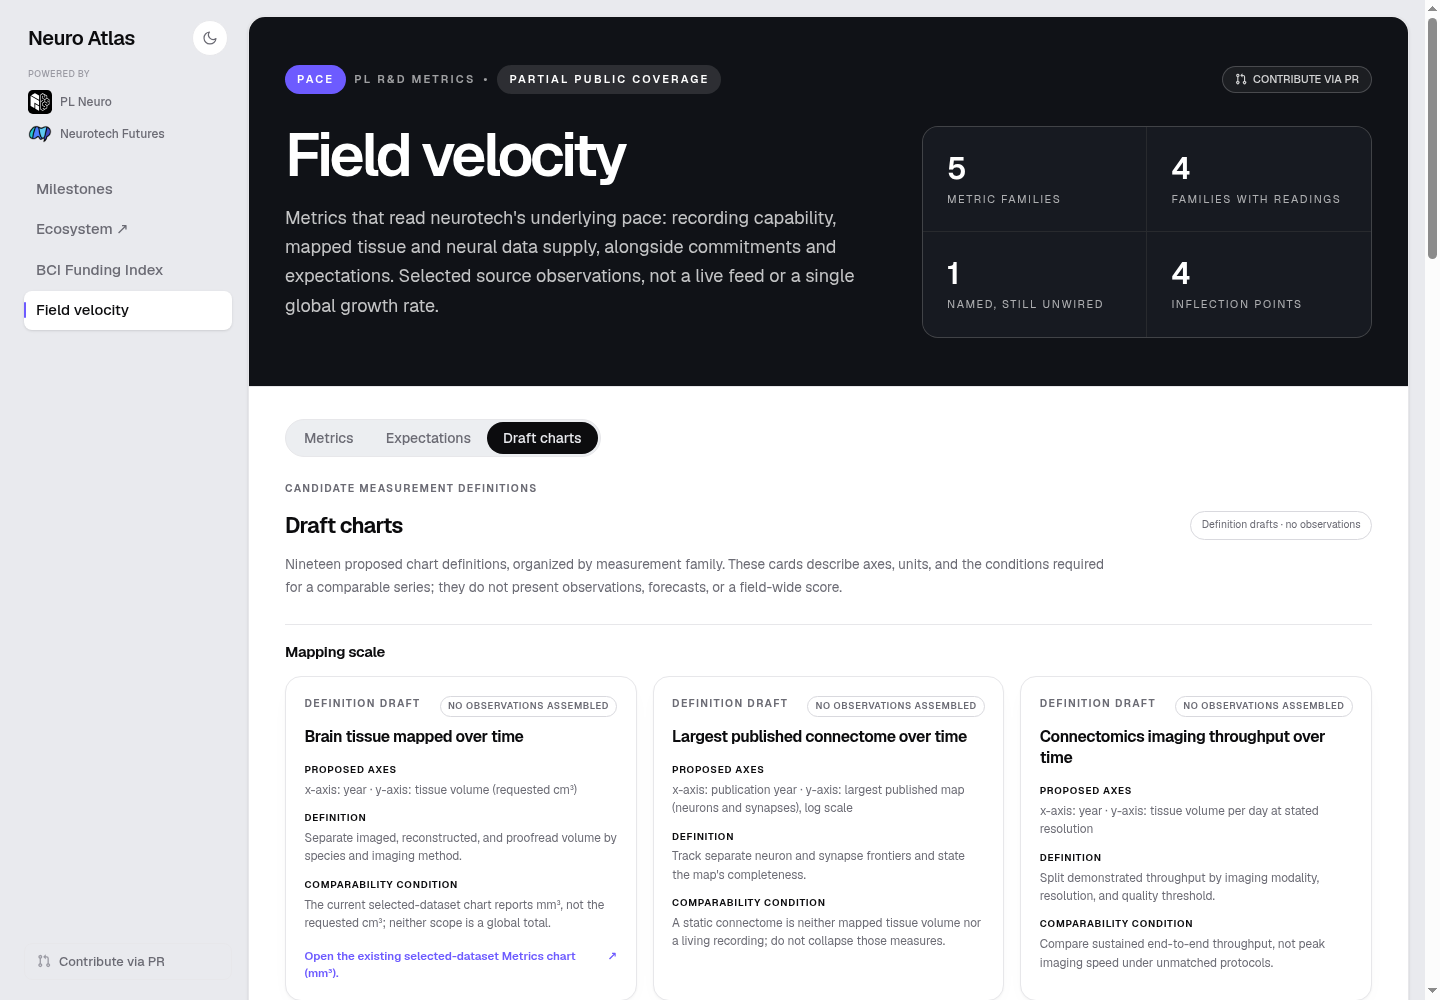
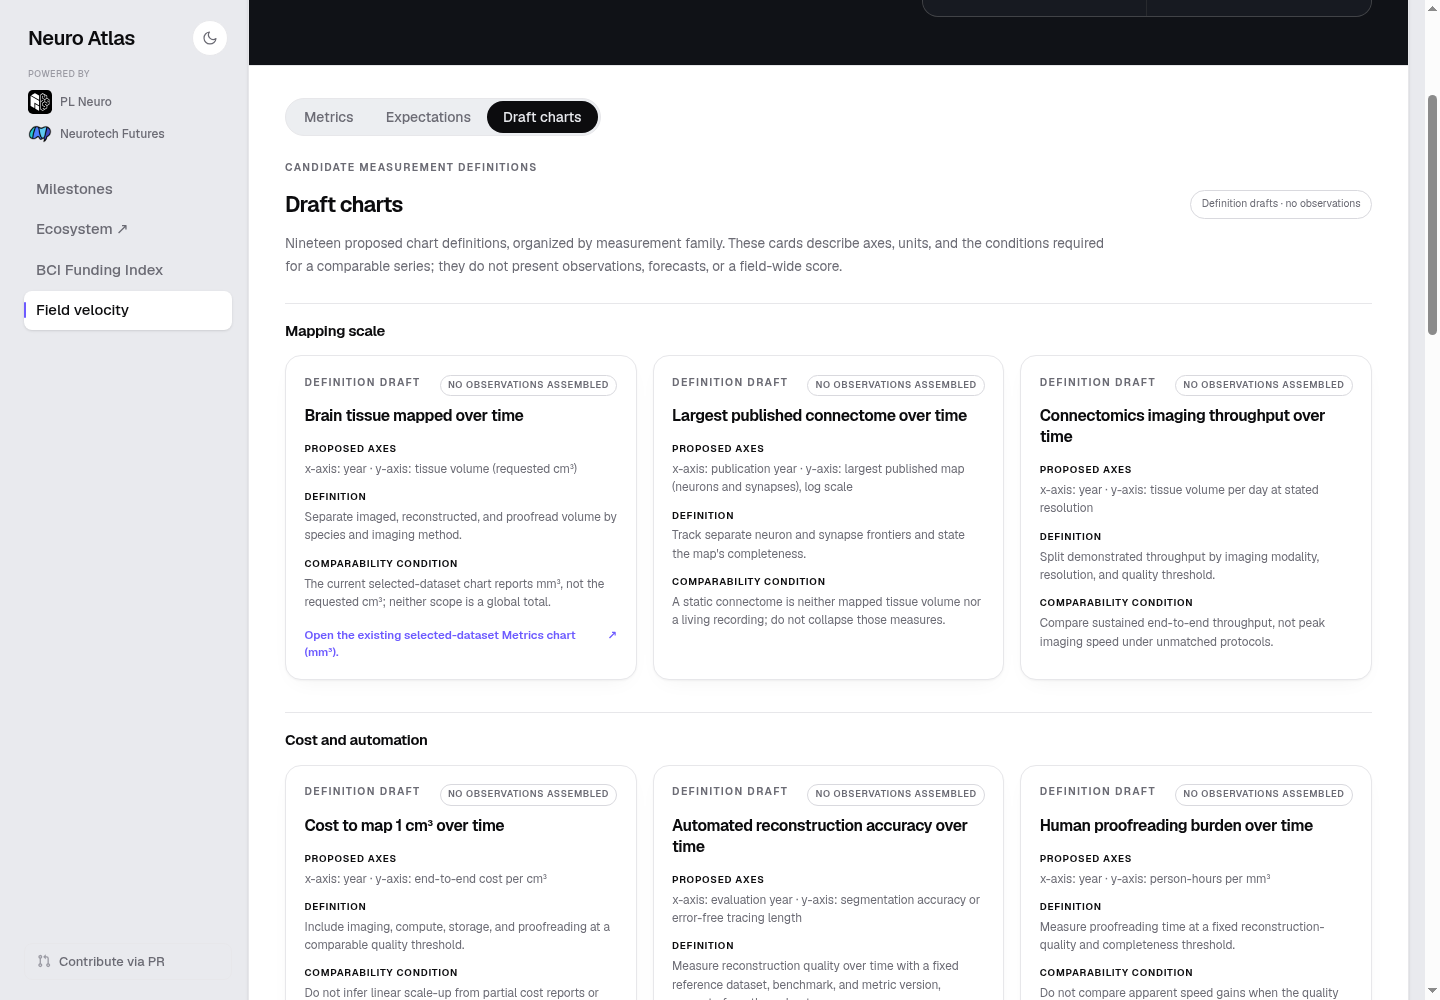
docs: record verified draft gallery screenshots and acceptance

diff --git a/docs/draft-charts.md b/docs/draft-charts.md
@@ -1,0 +1,54 @@
+# Draft charts gallery
+
+`/field-velocity#draft-charts` is the third Field velocity view, alongside Metrics and Expectations. It is a definition-only gallery, not a collection of populated plots or a forecast.
+
+## Scope
+
+All 19 candidate definitions appear exactly once across six measurement families:
+
+| Family | Definitions |
+| --- | ---: |
+| Mapping scale | 3 |
+| Cost and automation | 3 |
+| Tissue quality and annotation | 3 |
+| Human interfaces and recordings | 2 |
+| Data access and scientific use | 4 |
+| Simulation, NeuroAI, and impact | 4 |
+
+`src/data/draft-charts.ts` owns the definitions. Each card states proposed axes, its measurement definition, a comparability condition, and **No observations assembled**. There are no new coordinates, fabricated observations, extrapolations, source claims, or implied global totals. Internal deliberations and attribution are not included.
+
+Two cards link to the existing bounded Metrics charts: tissue mapped (currently mm³, rather than the proposed cm³) and selected neural-recording hours. Existing observations are neither duplicated nor summed. The largest-published-connectome candidate is separate: anatomical neuron/synapse map frontiers are not mapped tissue volume or living-neuron recording. Reconstruction accuracy uses evaluation year while holding the reference dataset, benchmark, and metric version fixed.
+
+## Navigation
+
+The stable `#draft-charts` fragment selects the gallery on a fresh URL and through Back/Forward. Existing five chart fragments, Metrics, and Expectations remain valid. Both draft-to-Metrics links preserve ordinary modifier-click behavior; a normal click opens the corresponding Metrics modal. Close/Escape returns to the Draft view and originating link, including React StrictMode replay. The narrow tab rail scrolls locally and keeps its selection visible when the viewport changes.
+
+## Verification — September 11, 2026
+
+Runtime revision: `c418d5f062b59b5d16738e463793d409b8eb719e`. Later documentation/screenshots do not change application source.
+
+- Frozen native `npm ci`; `npm test`: **122 passed, 0 failed**.
+- `npm run typecheck`, changed-file ESLint, and production `npm run build`: pass.
+- Full-repository ESLint still reports the same three pre-existing errors in `milestone-timeline.tsx` and `theme-toggle.tsx`; those files are unchanged.
+- Independent bounded review: PASS at the runtime revision. It independently reran 23 focused tests and closed the StrictMode focus, temporal-axis, and selected-tab resize findings.
+- Headed Chrome at **1440, 390, and 320 px**: all 19 definition cards, six categories, both Metrics links, keyboard activation, fresh Draft links, history, Escape/Close/focus return, text bounds, and zero document overflow pass.
+- All **five existing chart modals × three widths**: original source counts, direct/fresh links, real clipboard readback, focus wrap/return, Escape/Close/backdrop, and unchanged geometry/scroll across Back/Forward pass. Track filtering, mixed pointer/keyboard readouts, dark/reduced motion, and existing routes pass.
+- Resize without navigation: the selected Draft tab stays wholly within its local rail at all three widths.
+- Existing extrapolation implementation, measurement snapshot bytes, and hosted authentication are unchanged relative to main.
+
+Reproducible probes:
+
+```sh
+npm test
+npm run typecheck
+npm run build
+# Run these through browser-harness stdin in an owned browser window:
+# ATLAS_QA_URL=http://127.0.0.1:<port>/field-velocity
+# ATLAS_QA_OUTPUT=<local evidence directory>
+# scripts/qa/draft-charts-browser.py
+# scripts/qa/modal-browser.py
+```
+
+Machine-readable results are under `docs/qa/draft-charts/`. Screenshots in `docs/screenshots/draft-charts-*.png` are actual headed-Chrome captures of this runtime, not mockups.
+
+**Evidence boundary:** UI checks and screenshots used a disposable, loopback-only production build with an explicit test-only authentication fixture. The application checkout and hosted Basic Auth gate were not modified. Local UI evidence does not claim an authenticated hosted session was tested. This PR does not merge or enable a production launch.
